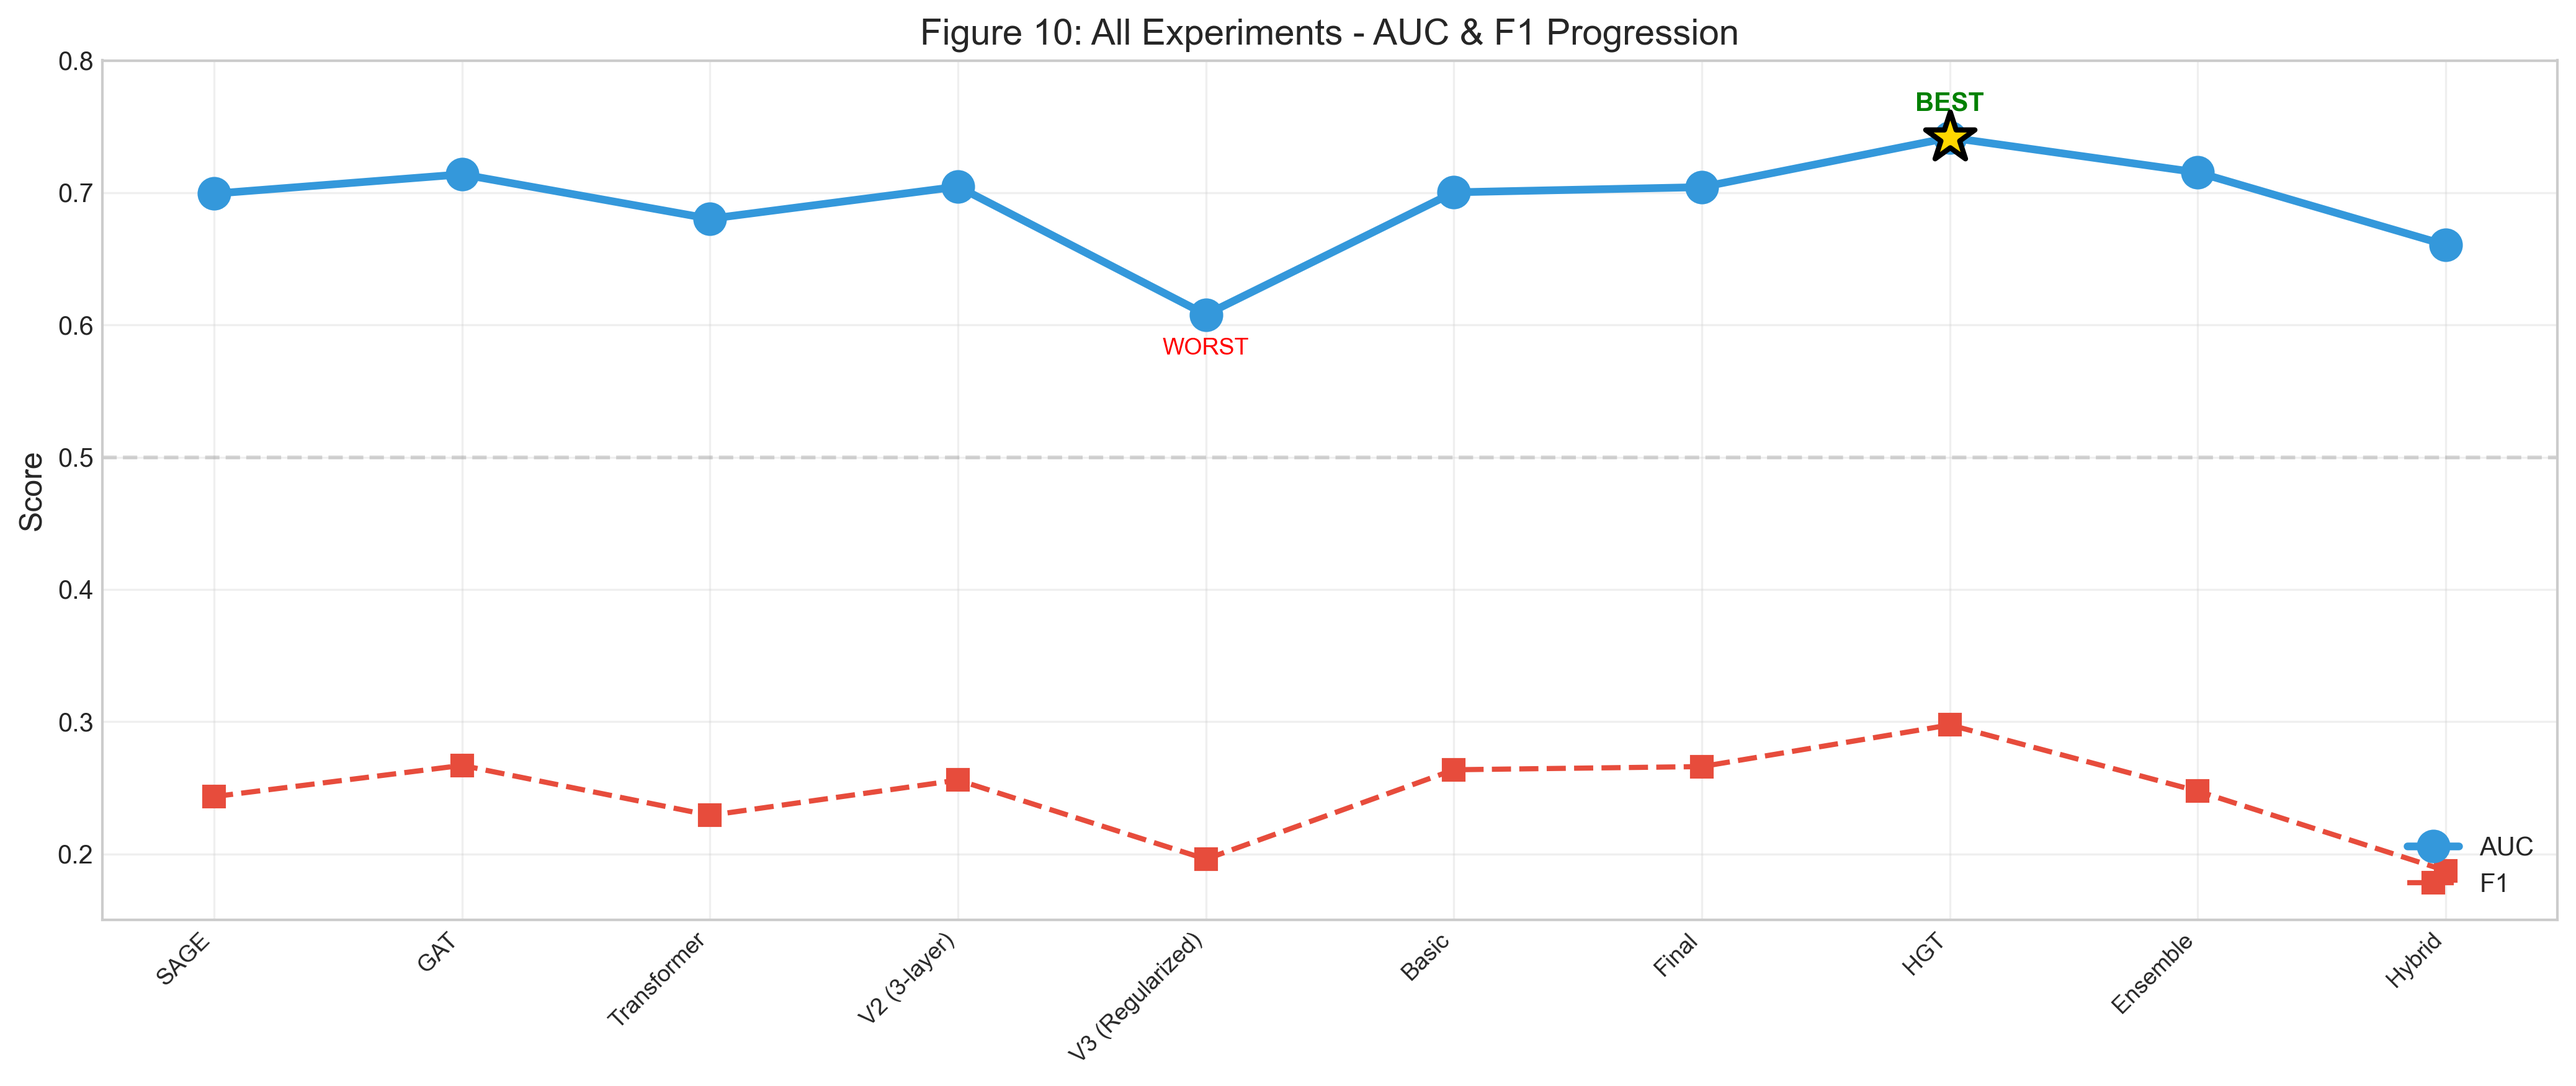
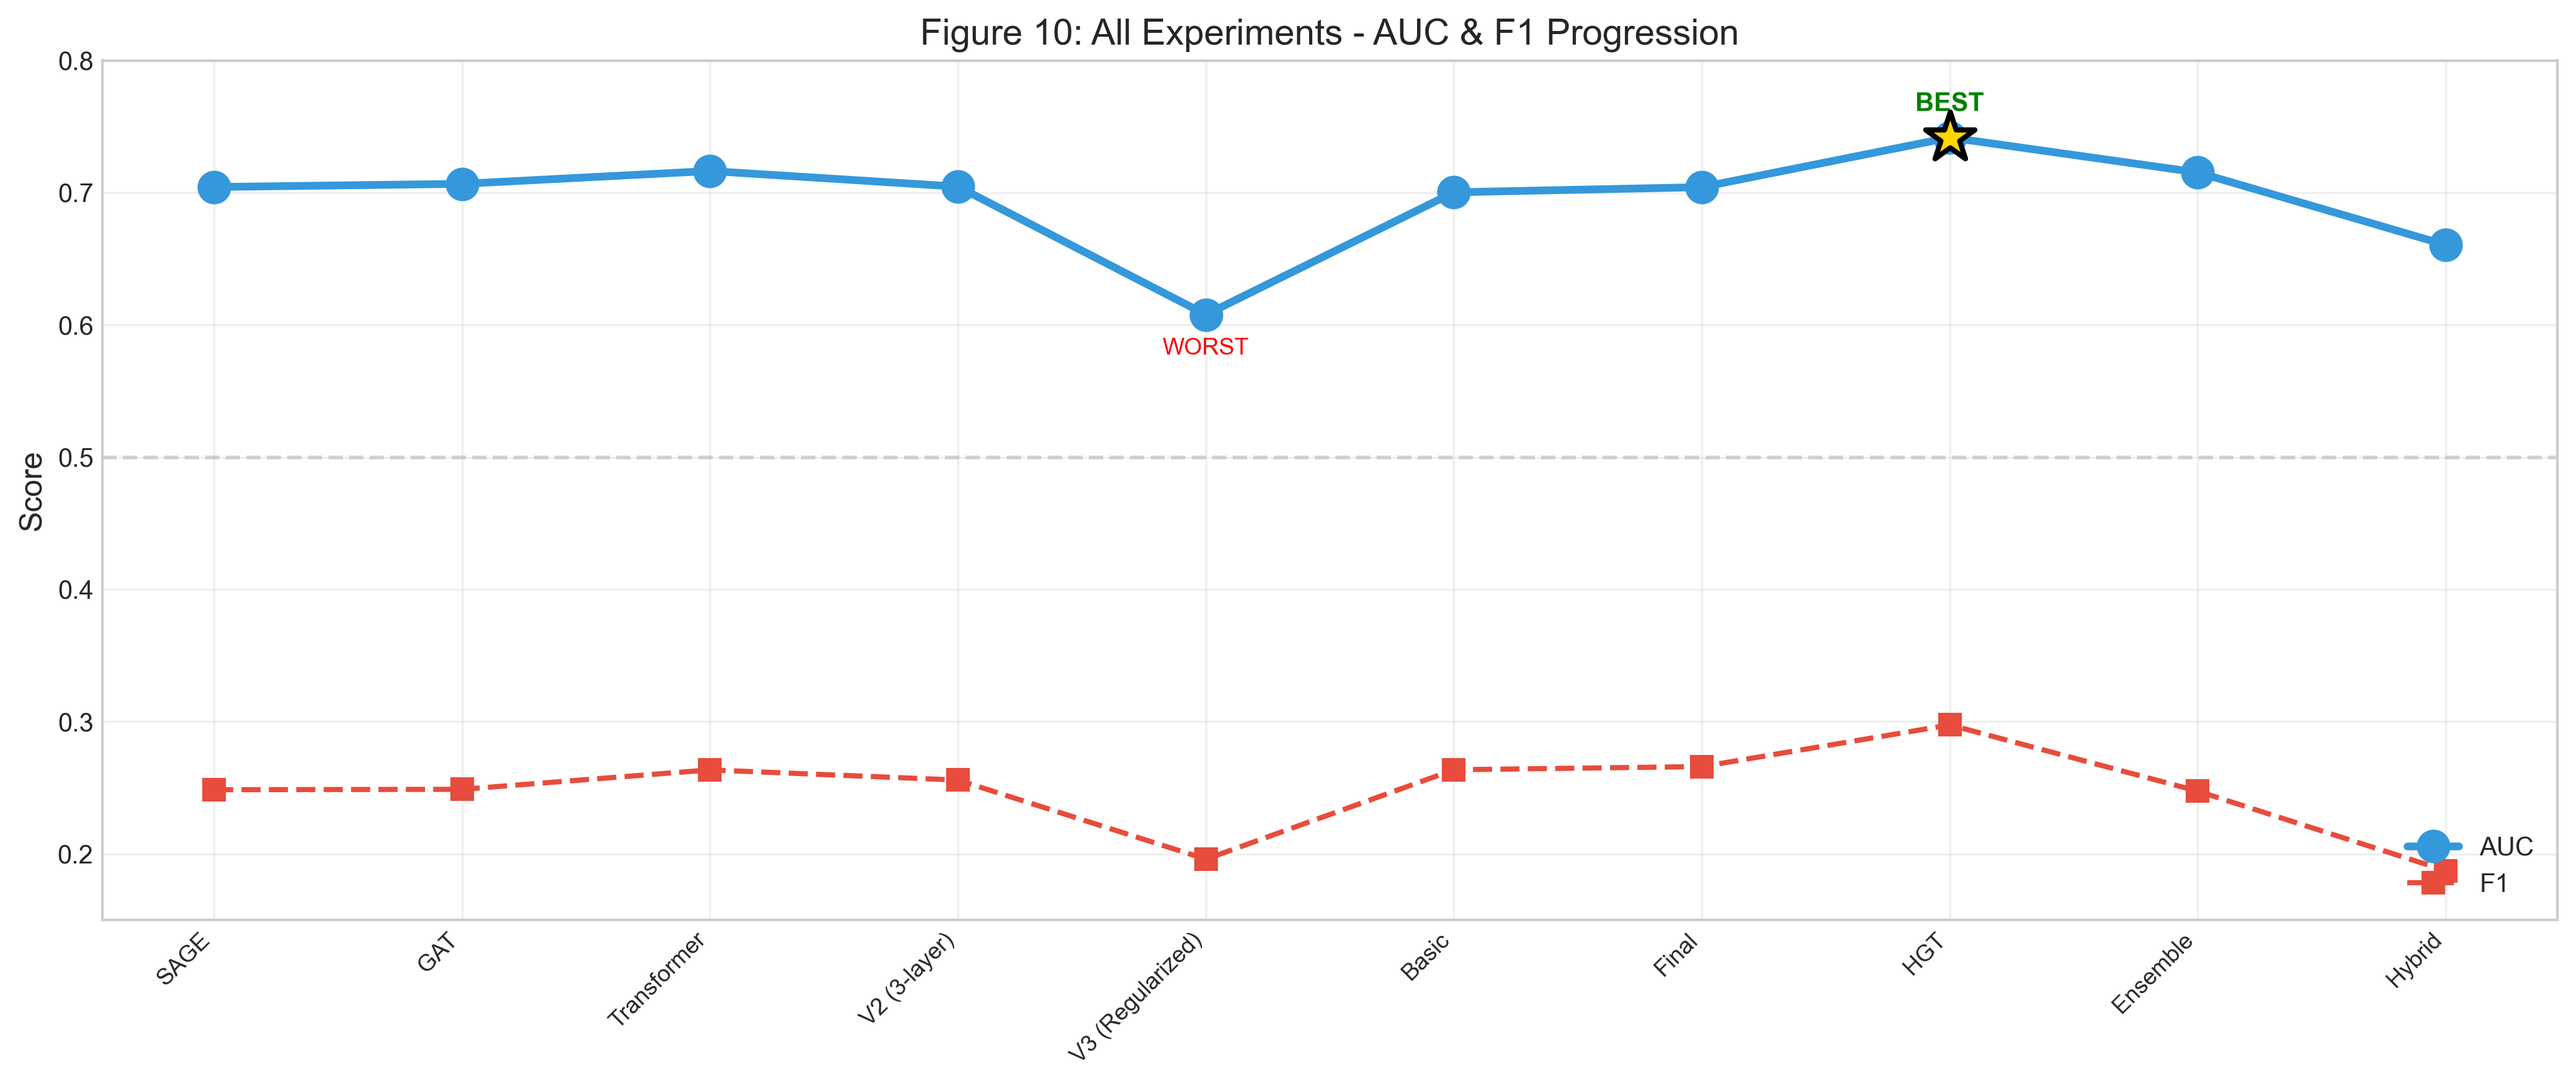
Revert to 10 epochs - GAT 75% recall is better for fraud detection

diff --git a/notebook_v1/17_experiment_visualizations.py b/notebook_v1/17_experiment_visualizations.py
@@ -36,9 +36,9 @@ os.makedirs(OUTPUT_DIR, exist_ok=True)
 # ============================================================================
 
 ALL_MODELS = {
-    'SAGE': {'auc': 0.6993, 'f1': 0.2434, 'precision': 0.16, 'recall': 0.45, 'params': 23205, 'script': '7_train_gnn_standalone.py'},
-    'GAT': {'auc': 0.7139, 'f1': 0.2670, 'precision': 0.17, 'recall': 0.62, 'params': 24485, 'script': '7_train_gnn_standalone.py'},
-    'Transformer': {'auc': 0.6803, 'f1': 0.2292, 'precision': 0.15, 'recall': 0.53, 'params': 47525, 'script': '7_train_gnn_standalone.py'},
+    'SAGE': {'auc': 0.7043, 'f1': 0.2486, 'precision': 0.15, 'recall': 0.57, 'params': 23205, 'script': '7_train_gnn_standalone.py'},
+    'GAT': {'auc': 0.7067, 'f1': 0.2489, 'precision': 0.15, 'recall': 0.75, 'params': 24485, 'script': '7_train_gnn_standalone.py'},
+    'Transformer': {'auc': 0.7164, 'f1': 0.2636, 'precision': 0.20, 'recall': 0.36, 'params': 47525, 'script': '7_train_gnn_standalone.py'},
     'V2 (3-layer)': {'auc': 0.7046, 'f1': 0.2559, 'precision': 0.15, 'recall': 0.67, 'params': 1028549, 'script': '9_transformer_v2.py'},
     'V3 (Regularized)': {'auc': 0.6078, 'f1': 0.1961, 'precision': 0.19, 'recall': 0.18, 'params': 101477, 'script': '10_transformer_v3.py'},
     'Basic': {'auc': 0.7003, 'f1': 0.2637, 'precision': 0.18, 'recall': 0.44, 'params': 6440, 'script': '12_graph_transformer_basic.py'},
@@ -48,11 +48,11 @@ ALL_MODELS = {
     'Hybrid': {'auc': 0.6605, 'f1': 0.1874, 'precision': 0.11, 'recall': 0.63, 'params': None, 'script': '15_hybrid_gnn_xgboost.py'},
 }
 
-# Confusion matrices from logs (20-epoch results for SAGE/GAT/Transformer)
+# Confusion matrices from logs (10-epoch results)
 CONFUSION_MATRICES = {
-    'SAGE': np.array([[671, 187], [44, 36]]),  # 20 epochs
-    'GAT': np.array([[607, 251], [30, 50]]),   # 20 epochs - 62% recall
-    'Transformer': np.array([[629, 233], [36, 40]]),  # 20 epochs
+    'SAGE': np.array([[621, 240], [33, 44]]),
+    'GAT': np.array([[523, 338], [19, 58]]),   # 75% recall - BEST for fraud!
+    'Transformer': np.array([[747, 114], [49, 28]]),
     'V2 (3-layer)': np.array([[570, 289], [26, 53]]),
     'V3 (Regularized)': np.array([[799, 60], [65, 14]]),  # Based on 0.18 recall, 0.19 precision
     'Basic': np.array([[670, 178], [50, 40]]),  # Based on 0.44 recall, 0.18 precision

diff --git a/notebook_v1/7_train_gnn_standalone.py b/notebook_v1/7_train_gnn_standalone.py
@@ -36,7 +36,7 @@ print(f"Device: {DEVICE}")
 # ============================================================================
 BATCH_SIZE = 512
 LR = 0.001
-EPOCHS = 20
+EPOCHS = 10
 HIDDEN_DIM = 32
 HEADS = 1
 
